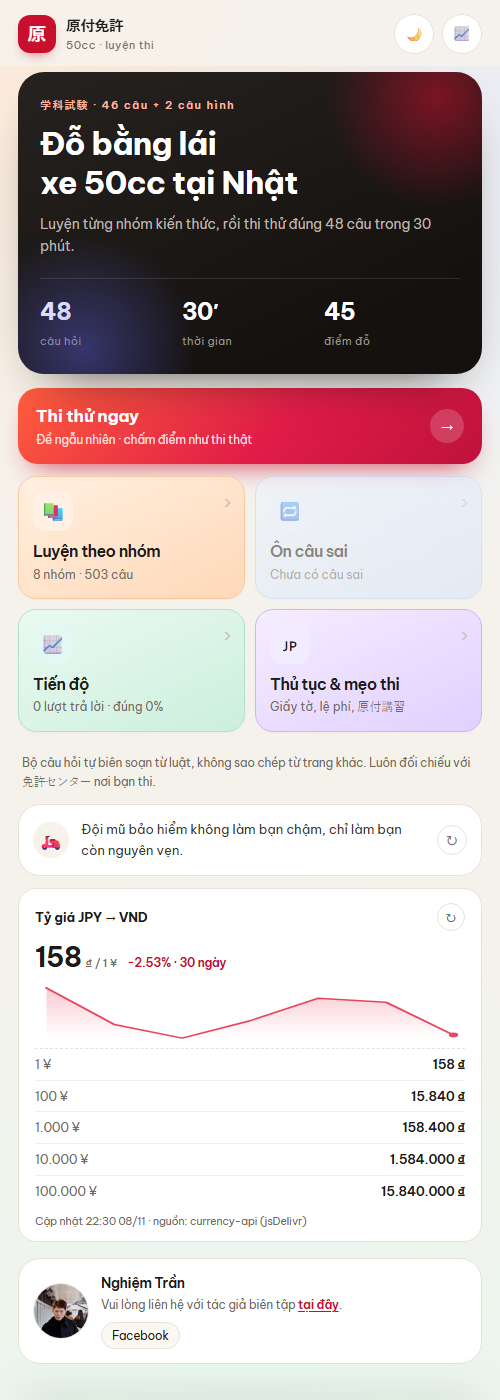
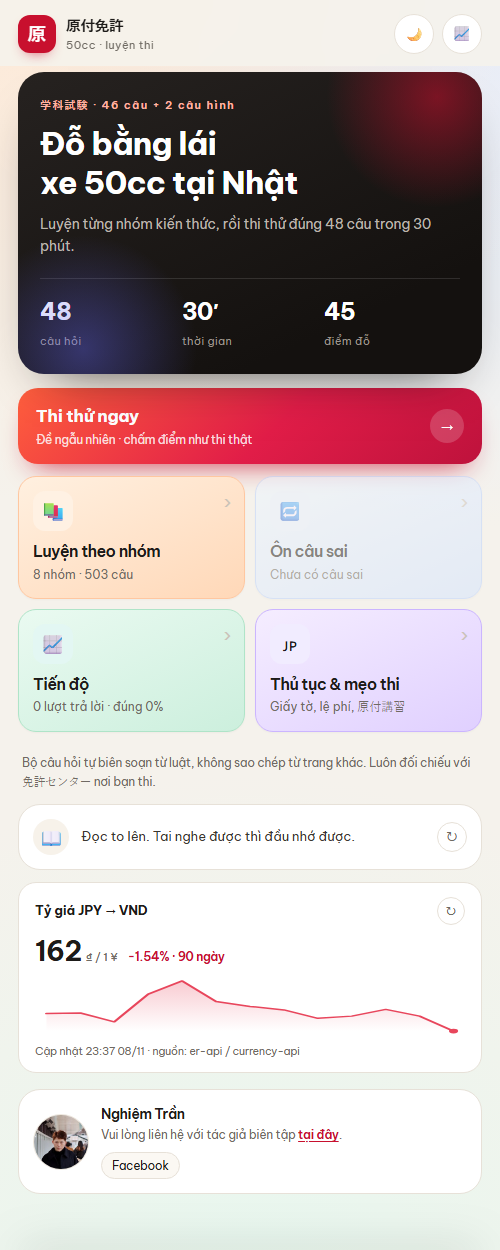
Add files via upload

diff --git a/js/app.js b/js/app.js
@@ -241,10 +241,16 @@
   }
 
   /* ---------------- tỷ giá JPY → VND ---------------- */
-  var FX_KEY = 'gentsuki.fx';
-  var FX_API = 'https://cdn.jsdelivr.net/npm/@fawazahmed0/currency-api@';
+  var FX_KEY = 'gentsuki.fx.v2';
   var FX_TTL = 30 * 60 * 1000;
-  var FX_FALLBACK = { rate: 161.5, date: '2026-11-08', series: [] };
+  /* chuỗi tỷ giá lưu sẵn (nguồn currency-api) — dùng khi không gọi được API */
+  var FX_DEFAULT = [
+    ['2026-08-16', 164.09], ['2026-08-23', 164.18], ['2026-08-30', 162.91],
+    ['2026-09-06', 166.90], ['2026-09-13', 168.82], ['2026-09-20', 165.85],
+    ['2026-09-27', 165.13], ['2026-10-04', 164.63], ['2026-10-11', 163.41],
+    ['2026-10-18', 163.73], ['2026-10-25', 164.70], ['2026-11-01', 163.73],
+    ['2026-11-08', 161.49]
+  ];
 
   function fxRead() {
     try { return JSON.parse(localStorage.getItem(FX_KEY)); } catch (e) { return null; }
@@ -252,7 +258,20 @@
   function fxWrite(d) {
     try { localStorage.setItem(FX_KEY, JSON.stringify(d)); } catch (e) { }
   }
-  function fxTemp(ts) { return ts < 0 ? 'fx-down' : ts > 0 ? 'fx-up' : ''; }
+  function fxDefaultSeries() {
+    return FX_DEFAULT.map(function (p) { return { d: p[0], v: p[1] }; });
+  }
+  function fxSeriesOf(d) {
+    var map = {};
+    FX_DEFAULT.forEach(function (p) { map[p[0]] = p[1]; });
+    if (d && d.series) { d.series.forEach(function (p) { map[p.d] = p.v; }); }
+    var arr = Object.keys(map).sort().map(function (k) { return { d: k, v: map[k] }; });
+    return arr.length >= 2 ? arr : fxDefaultSeries();
+  }
+  function fxToday() {
+    var n = new Date();
+    return n.getFullYear() + '-' + ('0' + (n.getMonth() + 1)).slice(-2) + '-' + ('0' + n.getDate()).slice(-2);
+  }
 
   function fxSpark(series) {
     if (!series || series.length < 2) { return ''; }
@@ -282,33 +301,31 @@
 
   function fxCard() {
     var d = fxRead();
-    if (!d || !d.rate) {
-      return '<section class="fx" id="fxBox">' +
-        '<div class="fx-head"><b>Tỷ giá JPY → VND</b></div>' +
-        '<p class="fx-note">Đang tải tỷ giá…</p></section>';
-    }
-    var series = d.series || [];
-    var chg = series.length > 1 ? (d.rate - series[0].v) : 0;
+    var all = fxSeriesOf(d);
+    /* chỉ lấy các điểm trong 90 ngày gần nhất */
+    var cut = new Date(Date.now() - 92 * 86400000);
+    var cutIso = cut.getFullYear() + '-' + ('0' + (cut.getMonth() + 1)).slice(-2) + '-' + ('0' + cut.getDate()).slice(-2);
+    var series = all.filter(function (p) { return p.d >= cutIso; }).slice(-14);
+    var rate = (d && d.rate) ? d.rate : series[series.length - 1].v;
+    var chg = series.length > 1 ? (rate - series[0].v) : 0;
     var pct = series.length > 1 ? (chg / series[0].v) * 100 : 0;
     var sign = chg > 0 ? '+' : '';
-    var amounts = [1, 100, 1000, 10000, 100000];
-    var rows = amounts.map(function (a) {
-      return '<div class="fx-row"><span>' + a.toLocaleString('vi-VN') + ' ¥</span>' +
-        '<b>' + Math.round(a * d.rate).toLocaleString('vi-VN') + ' ₫</b></div>';
-    }).join('');
+    var stamp = (d && d.updatedLabel) ? d.updatedLabel : 'dữ liệu lưu sẵn';
+    var stale = !d || d.stale;
+
     return '<section class="fx" id="fxBox">' +
       '<div class="fx-head"><b>Tỷ giá JPY → VND</b>' +
       '<button class="fx-refresh" data-act="fx" aria-label="Cập nhật tỷ giá">↻</button></div>' +
-      '<div class="fx-top"><div class="fx-rate">' + Math.round(d.rate).toLocaleString('vi-VN') +
+      '<div class="fx-top"><div class="fx-rate">' + Math.round(rate).toLocaleString('vi-VN') +
       '<small>₫ / 1 ¥</small></div>' +
       (series.length > 1
-        ? '<div class="fx-chg ' + fxTemp(chg) + '">' + sign + pct.toFixed(2) + '% · 30 ngày</div>'
+        ? '<div class="fx-chg ' + (chg > 0 ? 'fx-up' : chg < 0 ? 'fx-down' : '') + '">' +
+          sign + pct.toFixed(2) + '% · 90 ngày</div>'
         : '') +
       '</div>' +
       fxSpark(series) +
-      '<div class="fx-table">' + rows + '</div>' +
-      '<p class="fx-note">Cập nhật ' + esc(d.updatedLabel || '') + ' · nguồn: currency-api (jsDelivr)' +
-      (d.stale ? ' · số liệu lưu sẵn' : '') + '</p>' +
+      '<p class="fx-note">Cập nhật ' + esc(stamp) + ' · nguồn: er-api / currency-api' +
+      (stale ? ' · số liệu lưu sẵn' : '') + '</p>' +
       '</section>';
   }
 
@@ -317,84 +334,52 @@
     if (el) { el.outerHTML = fxCard(); }
   }
 
+  function fxFetchLatest() {
+    /* 1) er-api (Cloudflare, một request) */
+    return fetch('https://open.er-api.com/v6/latest/JPY', { mode: 'cors' })
+      .then(function (r) { return r.json(); })
+      .then(function (j) {
+        return (j && j.rates && j.rates.VND) ? { d: fxToday(), v: j.rates.VND } : null;
+      })
+      .catch(function () { return null; })
+      .then(function (x) {
+        if (x) { return x; }
+        /* 2) currency-api qua jsDelivr */
+        return fetch('https://cdn.jsdelivr.net/npm/@fawazahmed0/currency-api@latest/v1/currencies/jpy.json', { mode: 'cors' })
+          .then(function (r) { return r.json(); })
+          .then(function (j) {
+            return (j && j.jpy && j.jpy.vnd) ? { d: j.date, v: j.jpy.vnd } : null;
+          })
+          .catch(function () { return null; });
+      });
+  }
+
   function fxLoad(force) {
     var d = fxRead();
     if (!force && d && d.rate && (Date.now() - (d.ts || 0) < FX_TTL)) { return; }
 
-    var dates = [];
-    for (var i = 6; i >= 0; i--) {
-      var dt = new Date(Date.now() - i * 5 * 86400000);
-      dates.push({
-        y: dt.getFullYear(), m: dt.getMonth() + 1, d: dt.getDate(),
-        iso: dt.getFullYear() + '-' + ('0' + (dt.getMonth() + 1)).slice(-2) + '-' + ('0' + dt.getDate()).slice(-2)
-      });
-    }
+    fxFetchLatest().then(function (x) {
+      var map = {};
+      FX_DEFAULT.forEach(function (p) { map[p[0]] = p[1]; });
+      if (d && d.series) { d.series.forEach(function (p) { map[p.d] = p.v; }); }
+      if (x) { map[x.d] = x.v; }
 
-    var jobs = dates.map(function (x) {
-      var ver = x.y + '.' + x.m + '.' + x.d;
-      var url = FX_API + '@' + ver + '/v1/currencies/jpy.json';
-      return fetch(url, { mode: 'cors' }).then(function (r) { return r.json(); }).then(function (j) {
-        var v = j && j.jpy && j.jpy.vnd;
-        return v ? { d: x.iso, v: v } : null;
-      }).catch(function () { return null; });
-    });
-
-    Promise.all(jobs).then(function (arr) {
-      var series = arr.filter(Boolean).sort(function (a, b) { return a.d < b.d ? -1 : 1; });
-      if (!series.length) { throw new Error('empty'); }
+      var series = Object.keys(map).sort().map(function (k) { return { d: k, v: map[k] }; });
       var last = series[series.length - 1];
       var now = new Date();
       fxWrite({
-        rate: last.v, date: last.d, series: series, ts: Date.now(),
-        updatedLabel: ('0' + now.getHours()).slice(-2) + ':' + ('0' + now.getMinutes()).slice(-2) +
-          ' ' + ('0' + now.getDate()).slice(-2) + '/' + ('0' + (now.getMonth() + 1)).slice(-2)
+        rate: x ? x.v : last.v,
+        date: x ? x.d : last.d,
+        series: series,
+        ts: x ? Date.now() : 0,
+        stale: !x,
+        updatedLabel: x
+          ? ('0' + now.getHours()).slice(-2) + ':' + ('0' + now.getMinutes()).slice(-2) +
+            ' ' + ('0' + now.getDate()).slice(-2) + '/' + ('0' + (now.getMonth() + 1)).slice(-2)
+          : 'dữ liệu lưu sẵn'
       });
       fxReplace();
-    }).catch(function () {
-      var old = fxRead();
-      if (!old) {
-        fxWrite({
-          rate: FX_FALLBACK.rate, date: FX_FALLBACK.date, series: [], ts: 0,
-          updatedLabel: FX_FALLBACK.date, stale: true
-        });
-        fxReplace();
-      }
     });
-  }
-
-  /* ---------------- mở app Facebook thay vì trình duyệt ---------------- */
-  function openFacebook(url) {
-    var ua = navigator.userAgent || '';
-    var isAndroid = /Android/i.test(ua);
-    var isIOS = /iPhone|iPad|iPod/i.test(ua);
-
-    if (isAndroid) {
-      /* Android: intent mở app nếu có, tự fallback về web nếu không */
-      var bare = url.replace(/^https?:\/\//, '');
-      window.location.href = 'intent://' + bare +
-        '#Intent;scheme=https;package=com.facebook.katana;' +
-        'S.browser_fallback_url=' + encodeURIComponent(url) + ';end';
-      return;
-    }
-
-    if (isIOS) {
-      /* iOS: thử scheme fb:// rồi fallback sau 1.2s nếu app không mở */
-      var opened = false;
-      var timer = setTimeout(function () {
-        if (!opened) { window.location.href = url; }
-      }, 1200);
-      document.addEventListener('visibilitychange', function onVis() {
-        if (document.hidden) {
-          opened = true;
-          clearTimeout(timer);
-          document.removeEventListener('visibilitychange', onVis);
-        }
-      });
-      window.location.href = 'fb://facewebmodal/f?href=' + encodeURIComponent(url);
-      return;
-    }
-
-    window.open(url, '_blank', 'noopener');
   }
 
   function viewHome() {
@@ -1134,6 +1119,11 @@
       return illById[id].subs.map(function (s) { return j === 0 ? s.a : 1 - s.a; });
     });
     submitExam(false);
+  }
+  else if (demo === 'fxempty') {
+    fxWrite({ rate: 161.5, date: '2026-11-08', series: [], ts: Date.now(),
+      updatedLabel: '22:30 08/11', stale: true });
+    go('home');
   }
   else if (demo === 'fx') {
     var ser = [];

diff --git a/css/style.css b/css/style.css
@@ -1138,11 +1138,18 @@ body {
 .fx-up { color: var(--green); }
 .fx-down { color: var(--red); }
 .fx-spark { width: 100%; height: 62px; display: block; margin: 4px 0 0; }
-.fx-table { margin-top: 4px; border-top: 1px dashed var(--line); }
-.fx-row { display: flex; justify-content: space-between; padding: 6px 0; font-size: 12.5px; border-bottom: 1px solid #f3eee6; }
-.fx-row:last-child { border-bottom: none; }
-.fx-row span { color: var(--muted); font-variant-numeric: tabular-nums; }
-.fx-row b { font-weight: 600; font-variant-numeric: tabular-nums; }
 .fx-note { font-size: 10.5px; color: var(--muted); margin-top: 7px; line-height: 1.5; }
-[data-theme="dark"] .fx-row { border-color: #2a2622; }
 [data-theme="dark"] .fx-refresh:hover { background: #262220; }
+
+.fx-empty {
+  height: 62px;
+  margin-top: 6px;
+  border-radius: 10px;
+  background: linear-gradient(180deg, rgba(232, 70, 92, .06), rgba(232, 70, 92, 0));
+  border-bottom: 1px dashed var(--line);
+  display: flex;
+  align-items: center;
+  justify-content: center;
+  font-size: 11px;
+  color: var(--muted);
+}

diff --git a/sw.js b/sw.js
@@ -1,6 +1,6 @@
 /* Service worker — cho phép dùng offline sau lần mở đầu tiên.
    Đổi CACHE khi sửa nội dung để buộc tải bản mới. */
-const CACHE = 'gentsuki-v16';
+const CACHE = 'gentsuki-v21';
 
 const ASSETS = [
   './',
